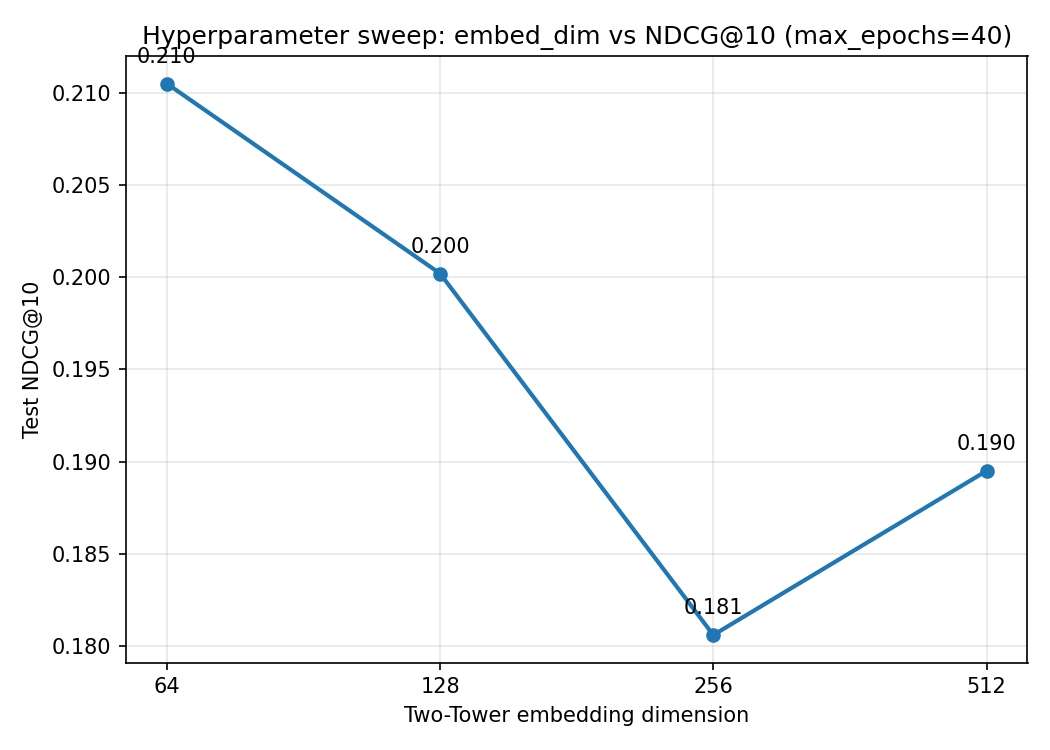
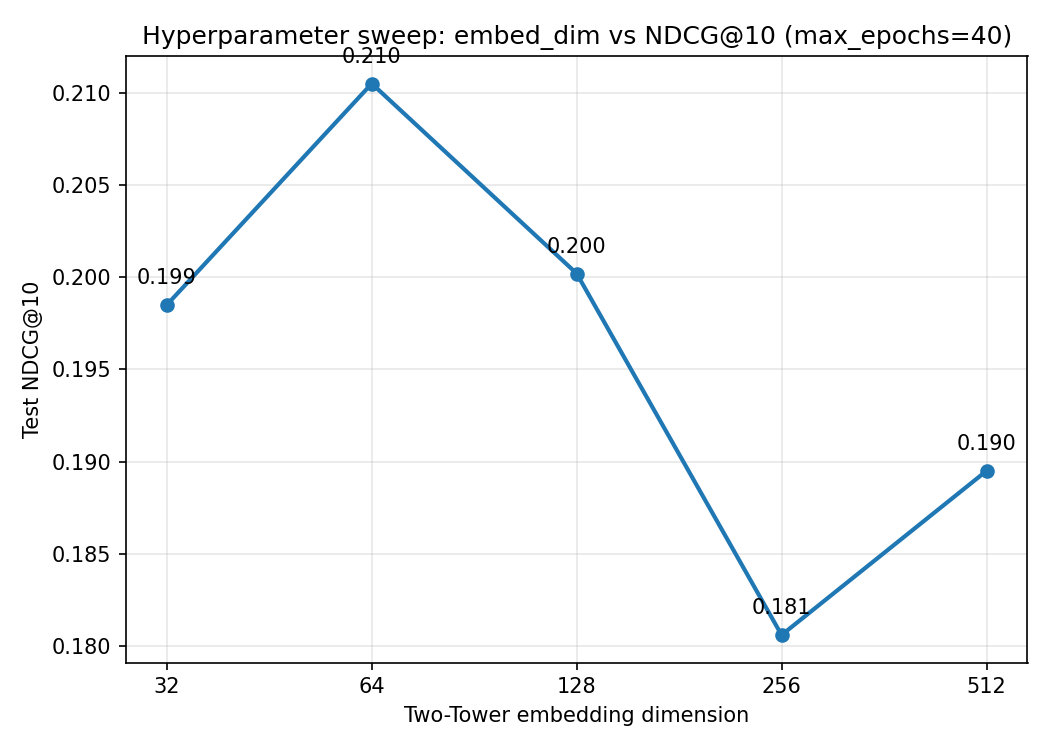
feat(experiment): add embed_dim=32 to hyperparam sweep
7 configs total: d=32/64/128/256/512 at epochs=40, plus d=128 at
epochs=20/60. U-shape is now explicit: d32 underfits (0.199), d64 wins
(0.211), d128 flat (0.200), d256/512 overfit (0.181/0.190). README
prose + sweep JSON/PNG regenerated; canonical d64/e40 model unchanged.

diff --git a/scripts/experiment.py b/scripts/experiment.py
@@ -84,12 +84,13 @@ def _run_train(args_list: List[str]) -> Dict[str, Any]:
 
 
 def hyperparam_sweep() -> None:
-    """Sweep embed_dim ∈ {64, 128, 256, 512} at max_epochs=40 (spec §5.6);
+    """Sweep embed_dim ∈ {32, 64, 128, 256, 512} at max_epochs=40 (spec §5.6);
     add 128/20 and 128/60 to quantify the effect of training length at the
     default embed_dim. The 128/20 result is our Phase E baseline (NDCG@10=0.20);
     we rerun it here so results live in one table for reproducibility."""
 
     configs: List[Dict[str, int]] = [
+        {"embed_dim": 32, "max_epochs": 40},
         {"embed_dim": 64, "max_epochs": 40},
         {"embed_dim": 128, "max_epochs": 40},
         {"embed_dim": 256, "max_epochs": 40},

diff --git a/README.md b/README.md
@@ -85,7 +85,7 @@ Test split: 1,006 paraphrase queries held out (80/10/10 stratified by modality).
 Three take-aways that structure the report:
 
 - **Two-Tower lifts NDCG@10 by 162× over popularity and ~2.9× over KNN.** The no-intent ablation (trained at the same `d128/e20` config as the base it is ablated against) drops NDCG@10 from 0.2002 to 0.1645 — a **~18% drop** from removing just the 7-d intent features — so mood-intent decoupling carries independent signal.
-- **Smaller embeddings won.** The hyperparameter sweep over `embed_dim ∈ {64, 128, 256, 512}` at 40 epochs picked `embed_dim=64` as best; larger capacities overfit on a ~10 k-query training set. See `data/outputs/hyperparam_sweep.png`.
+- **Smaller embeddings won — but not the smallest.** The hyperparameter sweep over `embed_dim ∈ {32, 64, 128, 256, 512}` at 40 epochs shows a clear U-shape (d32 underfits at 0.199, d256 and d512 overfit at 0.181 and 0.190), with `embed_dim=64` sitting at the sweet spot at **NDCG@10 = 0.2105**. See `data/outputs/hyperparam_sweep.png`.
 - **Cross-modal transfer has real cost.** Holding out one modality at training time drops NDCG@10 by 30–51% on the full test set (`data/outputs/cross_modal_transfer.json`). The model benefits meaningfully from modality-aware item features — but that benefit is partly paid for in modality-agnostic generalization, which matters for commercial scoping and is honestly flagged in Limitations.
 
 A precision-coverage tension is visible across layers: KNN slightly edges Two-Tower on cross-modal coherence (L2) and LLM-judge scores (L4) because near-uniform weights favour thematic blending, whereas Two-Tower's InfoNCE loss optimizes precise query-to-item retrieval. Both stories are real findings documented in `data/outputs/eval_results.json`.
@@ -228,7 +228,7 @@ The HF dataset stores artifacts flat at the repo root (`catalog.jsonl`, `feature
 
 `scripts/experiment.py` adds two follow-ons:
 
-- `--type=hyperparam_sweep` trains Two-Tower at `embed_dim ∈ {64, 128, 256, 512}` × `max_epochs ∈ {20, 40, 60}`, writes results to JSON + saves the curve as `hyperparam_sweep.png`, and promotes the best config as the canonical `model.pt`.
+- `--type=hyperparam_sweep` trains Two-Tower at `embed_dim ∈ {32, 64, 128, 256, 512}` at `max_epochs=40`, plus `embed_dim=128` at `max_epochs ∈ {20, 60}` for a length-of-training slice, writes results to JSON + saves the curve as `hyperparam_sweep.png`, and (via the companion `--type=train_final`) promotes the best config as the canonical `model.pt`.
 - `--type=cross_modal_transfer` trains four Two-Towers with one modality held out of training at a time, then scores each on the full test split (including the held-out queries). The NDCG@10 gap vs the baseline quantifies how much the model relies on seeing every modality.
 
 10 qualitative case studies are also emitted (`data/outputs/case_studies.json`), sampled from 20 probe queries across four interest categories: `modality_collapse`, `low_coherence`, `high_cross_modal_coherence`, and `knn_two_tower_disagreement`. These are the raw material for the Error Analysis section of the report.

diff --git a/data/outputs/README.md b/data/outputs/README.md
@@ -6,7 +6,7 @@ Committed artifacts produced by `scripts/evaluate.py` and `scripts/experiment.py
 |---|---|---|
 | `eval_results.json` | `scripts/evaluate.py --model=all` | 4-layer eval across `popularity` / `knn` / `two_tower` / `two_tower_no_intent`: retrieval (P/R/NDCG/MAP at K∈{5,10}), independent-encoder coherence, modality-coverage entropy, `openai/gpt-5.4-nano` judge scores on 50 random test queries × 3 models. |
 | `case_studies.json` | `scripts/evaluate.py` (same run) | 10 qualitative case studies sampled from 20 probe queries across four categories: `modality_collapse`, `low_coherence`, `high_cross_modal_coherence`, `knn_two_tower_disagreement`. Raw material for the Error Analysis section of the report. |
-| `hyperparam_sweep.json` | `scripts/experiment.py --type=hyperparam_sweep` | Test metrics for six configurations: `embed_dim ∈ {64, 128, 256, 512}` at `max_epochs=40`, plus `embed_dim=128` at `max_epochs ∈ {20, 60}`. Best config (64/40) is promoted as the canonical `model.pt`. |
+| `hyperparam_sweep.json` | `scripts/experiment.py --type=hyperparam_sweep` | Test metrics for seven configurations: `embed_dim ∈ {32, 64, 128, 256, 512}` at `max_epochs=40`, plus `embed_dim=128` at `max_epochs ∈ {20, 60}`. Best config (d64/e40) is promoted as the canonical `model.pt`. |
 | `hyperparam_sweep.png` | same | `embed_dim` vs `NDCG@10` at `max_epochs=40` — the plot that lives in the report's Hyperparameter chapter. |
 | `cross_modal_transfer.json` | `scripts/experiment.py --type=cross_modal_transfer` | Baseline NDCG@10 (`d128/e20`) vs four holdout-modality Two-Towers trained at `max_epochs=40` and evaluated on the full test split. Documents the 30–51% transfer gap reported in README limitations. |
 | `final_model_info.json` | `scripts/experiment.py --type=train_final` | Metadata for the promoted canonical model (winning sweep config, best epoch, the intermediate filename it was copied from). |
